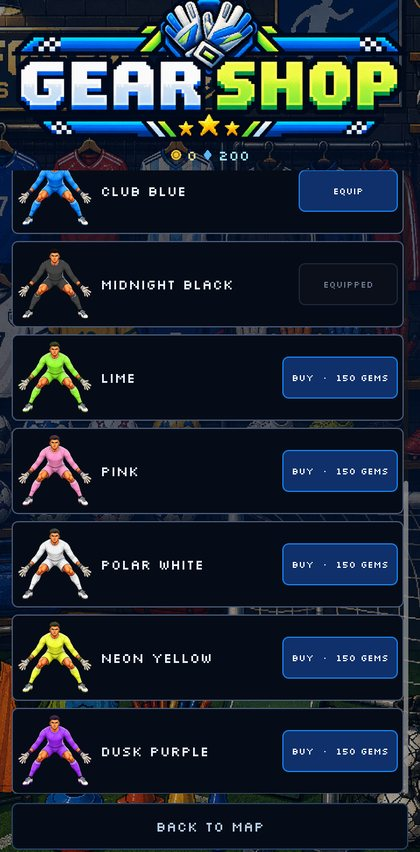
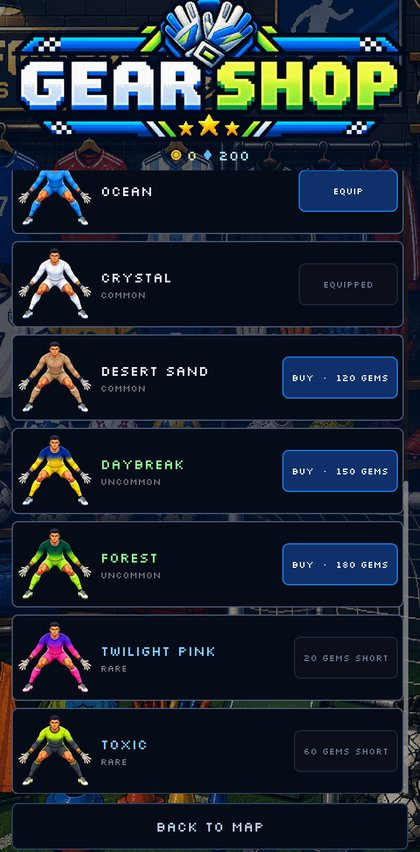
Rak kaus urut common sampai rare (sama dengan game), screenshot rak kaus asli

diff --git a/index.html b/index.html
@@ -307,9 +307,11 @@
   .glove-row span { font: 700 .7rem/1 var(--pixel); letter-spacing: .08em; text-transform: uppercase; color: var(--r, var(--muted)); }
   .r0 { --r: #e6ebf5; } .r1 { --r: #8cf299; } .r2 { --r: #80c7ff; } .r3 { --r: #c78cff; } .r4 { --r: #ffd159; } .r5 { --r: #73fafa; }
   .kit-row { display: grid; grid-template-columns: repeat(7, 1fr); gap: 8px; }
-  .kit-row figure { margin: 0; display: grid; gap: 4px; justify-items: center; background: #0d203e; border-radius: 12px; padding: 10px 4px 10px; border: 1px solid #16305a; }
+  .kit-row figure { margin: 0; display: grid; gap: 4px; justify-items: center; background: #0d203e; border-radius: 12px; padding: 10px 4px 10px; border: 1px solid #16305a; border-top: 3px solid var(--r, #16305a); }
   .kit-row img { width: 100%; max-width: 110px; }
-  .kit-row figcaption { font: 700 .75rem/1.3 var(--pixel); color: var(--muted); letter-spacing: .04em; text-transform: uppercase; text-align: center; }
+  .kit-row figcaption { display: grid; gap: 3px; text-align: center; }
+  .kit-row figcaption b { font: 700 .82rem/1.2 var(--pixel); color: var(--ink); letter-spacing: .03em; text-transform: uppercase; }
+  .kit-row figcaption span { font: 700 .7rem/1 var(--pixel); letter-spacing: .08em; text-transform: uppercase; color: var(--r, var(--muted)); }
   .note { font-size: .85rem; color: var(--faint); }
 
   /* ── Rank ─────────────────────────────────────────────── */
@@ -648,21 +650,17 @@
         </div>
         <div class="box kits">
           <h3 data-i18n="bx3_t">Your kit, your colour</h3>
-          <!-- Keputusan pemilik proyek 2026-09-27: rak warna solid DIGANTI kaus
-               bergradasi (seni mentah/keeper_ready_*.png), kecuali biru bawaan yang
-               namanya diganti "Samudra / Ocean". ⚠ Di GAME rak ini belum berubah:
-               kaus gradasi butuh empat lembar pose lagi per warna. Halaman ini jangan
-               di-push sebelum rak game menjual yang sama. -->
+          <!-- Urutan SAMA dengan rak game (resources/kits, v2.98): termurah/common
+               sampai termahal/rare. Garis atas = warna kelangkaan, sepola rak
+               sarung tangan di atasnya. -->
           <div class="kit-row">
-            <figure><img src="assets/kit_biru.png" alt="" loading="lazy"><figcaption data-i18n="k1">Ocean</figcaption></figure>
-            <figure><img src="assets/kitg_racun.png" alt="" loading="lazy"><figcaption data-i18n="kg1">Toxic</figcaption></figure>
-            <figure><img src="assets/kitg_senja.png" alt="" loading="lazy"><figcaption data-i18n="kg2">Twilight Pink</figcaption></figure>
-            <figure><img src="assets/kitg_hutan.png" alt="" loading="lazy"><figcaption data-i18n="kg3">Forest</figcaption></figure>
-            <figure><img src="assets/kitg_kristal.png" alt="" loading="lazy"><figcaption data-i18n="kg4">Crystal</figcaption></figure>
-            <figure><img src="assets/kitg_fajar.png" alt="" loading="lazy"><figcaption data-i18n="kg5">Daybreak</figcaption></figure>
-            <!-- Pengganti oranye: oranye milik LAWAN (StadiumStage.KIT_LAWAN). Diukur
-                 di dada kaus: rona 26°, jenuh 0,51 — lawan 40°, jenuh 0,89. -->
-            <figure><img src="assets/kitg_coklat.png" alt="" loading="lazy"><figcaption data-i18n="kg6">Desert Sand</figcaption></figure>
+            <figure class="r0"><img src="assets/kit_biru.png" alt="" loading="lazy"><figcaption><b data-i18n="k1">Ocean</b><span data-i18n="kf">Starter</span></figcaption></figure>
+            <figure class="r0"><img src="assets/kitg_kristal.png" alt="" loading="lazy"><figcaption><b data-i18n="kg4">Crystal</b><span>Common</span></figcaption></figure>
+            <figure class="r0"><img src="assets/kitg_coklat.png" alt="" loading="lazy"><figcaption><b data-i18n="kg6">Desert Sand</b><span>Common</span></figcaption></figure>
+            <figure class="r1"><img src="assets/kitg_fajar.png" alt="" loading="lazy"><figcaption><b data-i18n="kg5">Daybreak</b><span>Uncommon</span></figcaption></figure>
+            <figure class="r1"><img src="assets/kitg_hutan.png" alt="" loading="lazy"><figcaption><b data-i18n="kg3">Forest</b><span>Uncommon</span></figcaption></figure>
+            <figure class="r2"><img src="assets/kitg_senja.png" alt="" loading="lazy"><figcaption><b data-i18n="kg2">Twilight Pink</b><span>Rare</span></figcaption></figure>
+            <figure class="r2"><img src="assets/kitg_racun.png" alt="" loading="lazy"><figcaption><b data-i18n="kg1">Toxic</b><span>Rare</span></figcaption></figure>
           </div>
           <p data-i18n="bx3_p">Looks only — a kit never changes a stat. Whatever you wear shows up in every match. Add daily rewards, missions and six avatar frames to chase.</p>
         </div>
@@ -704,6 +702,7 @@
         <figure class="shot"><div class="phone"><img src="assets/shot_09_corner.jpg" alt="Corner defence" loading="lazy"></div><figcaption data-i18n="s3">Corner</figcaption></figure>
         <figure class="shot"><div class="phone"><img src="assets/shot_02b_cerita_dua_sisi.jpg" alt="A story scene with two characters" loading="lazy"></div><figcaption data-i18n="s4">The story</figcaption></figure>
         <figure class="shot"><div class="phone"><img src="assets/shot_05b_toko_sarung.jpg" alt="Gear shop with goalkeeper gloves and their stat bonuses" loading="lazy"></div><figcaption data-i18n="s7">Goalkeeper gloves</figcaption></figure>
+        <figure class="shot"><div class="phone"><img src="assets/shot_05f_toko_kaus.jpg" alt="Gear shop with the gradient keeper kits, common to rare" loading="lazy"></div><figcaption data-i18n="s5">Keeper kits</figcaption></figure>
         <figure class="shot"><div class="phone"><img src="assets/shot_05l_rank_menang.jpg" alt="Rank shootout won" loading="lazy"></div><figcaption data-i18n="s6">Rank win</figcaption></figure>
       </div>
     </div>
@@ -825,7 +824,7 @@
     bx2_t: "Sarung tangan bercerita", g1: "Tangan Pertama", g2: "Sekejap Mata", g3: "Cengkeram Badai",
     bx2_p: "Sembilan pasang, dibeli dengan koin dari pertandinganmu. Yang paling langka membawa jurus yang menyala saat Naluri Kiper dipakai.",
     bx3_t: "Kausmu, warnamu",
-    kg1: "Racun", kg2: "Senja Merah Muda", kg3: "Hutan", kg4: "Kristal", kg5: "Fajar", kg6: "Gurun Pasir",
+    kf: "Bawaan", kg1: "Racun", kg2: "Senja Merah Muda", kg3: "Hutan", kg4: "Kristal", kg5: "Fajar", kg6: "Gurun Pasir",
     s7: "Sarung tangan",
     k1: "Samudra", k2: "Hitam Malam", k3: "Putih Salju", k4: "Hijau Limau", k5: "Kuning Stabilo", k6: "Ungu Senja", k7: "Merah Muda",
     bx3_p: "Hanya tampilan — kaus tidak pernah mengubah stat. Apa pun yang kamu pakai terlihat di setiap pertandingan. Ditambah hadiah harian, misi, dan enam bingkai avatar untuk dikejar.",
